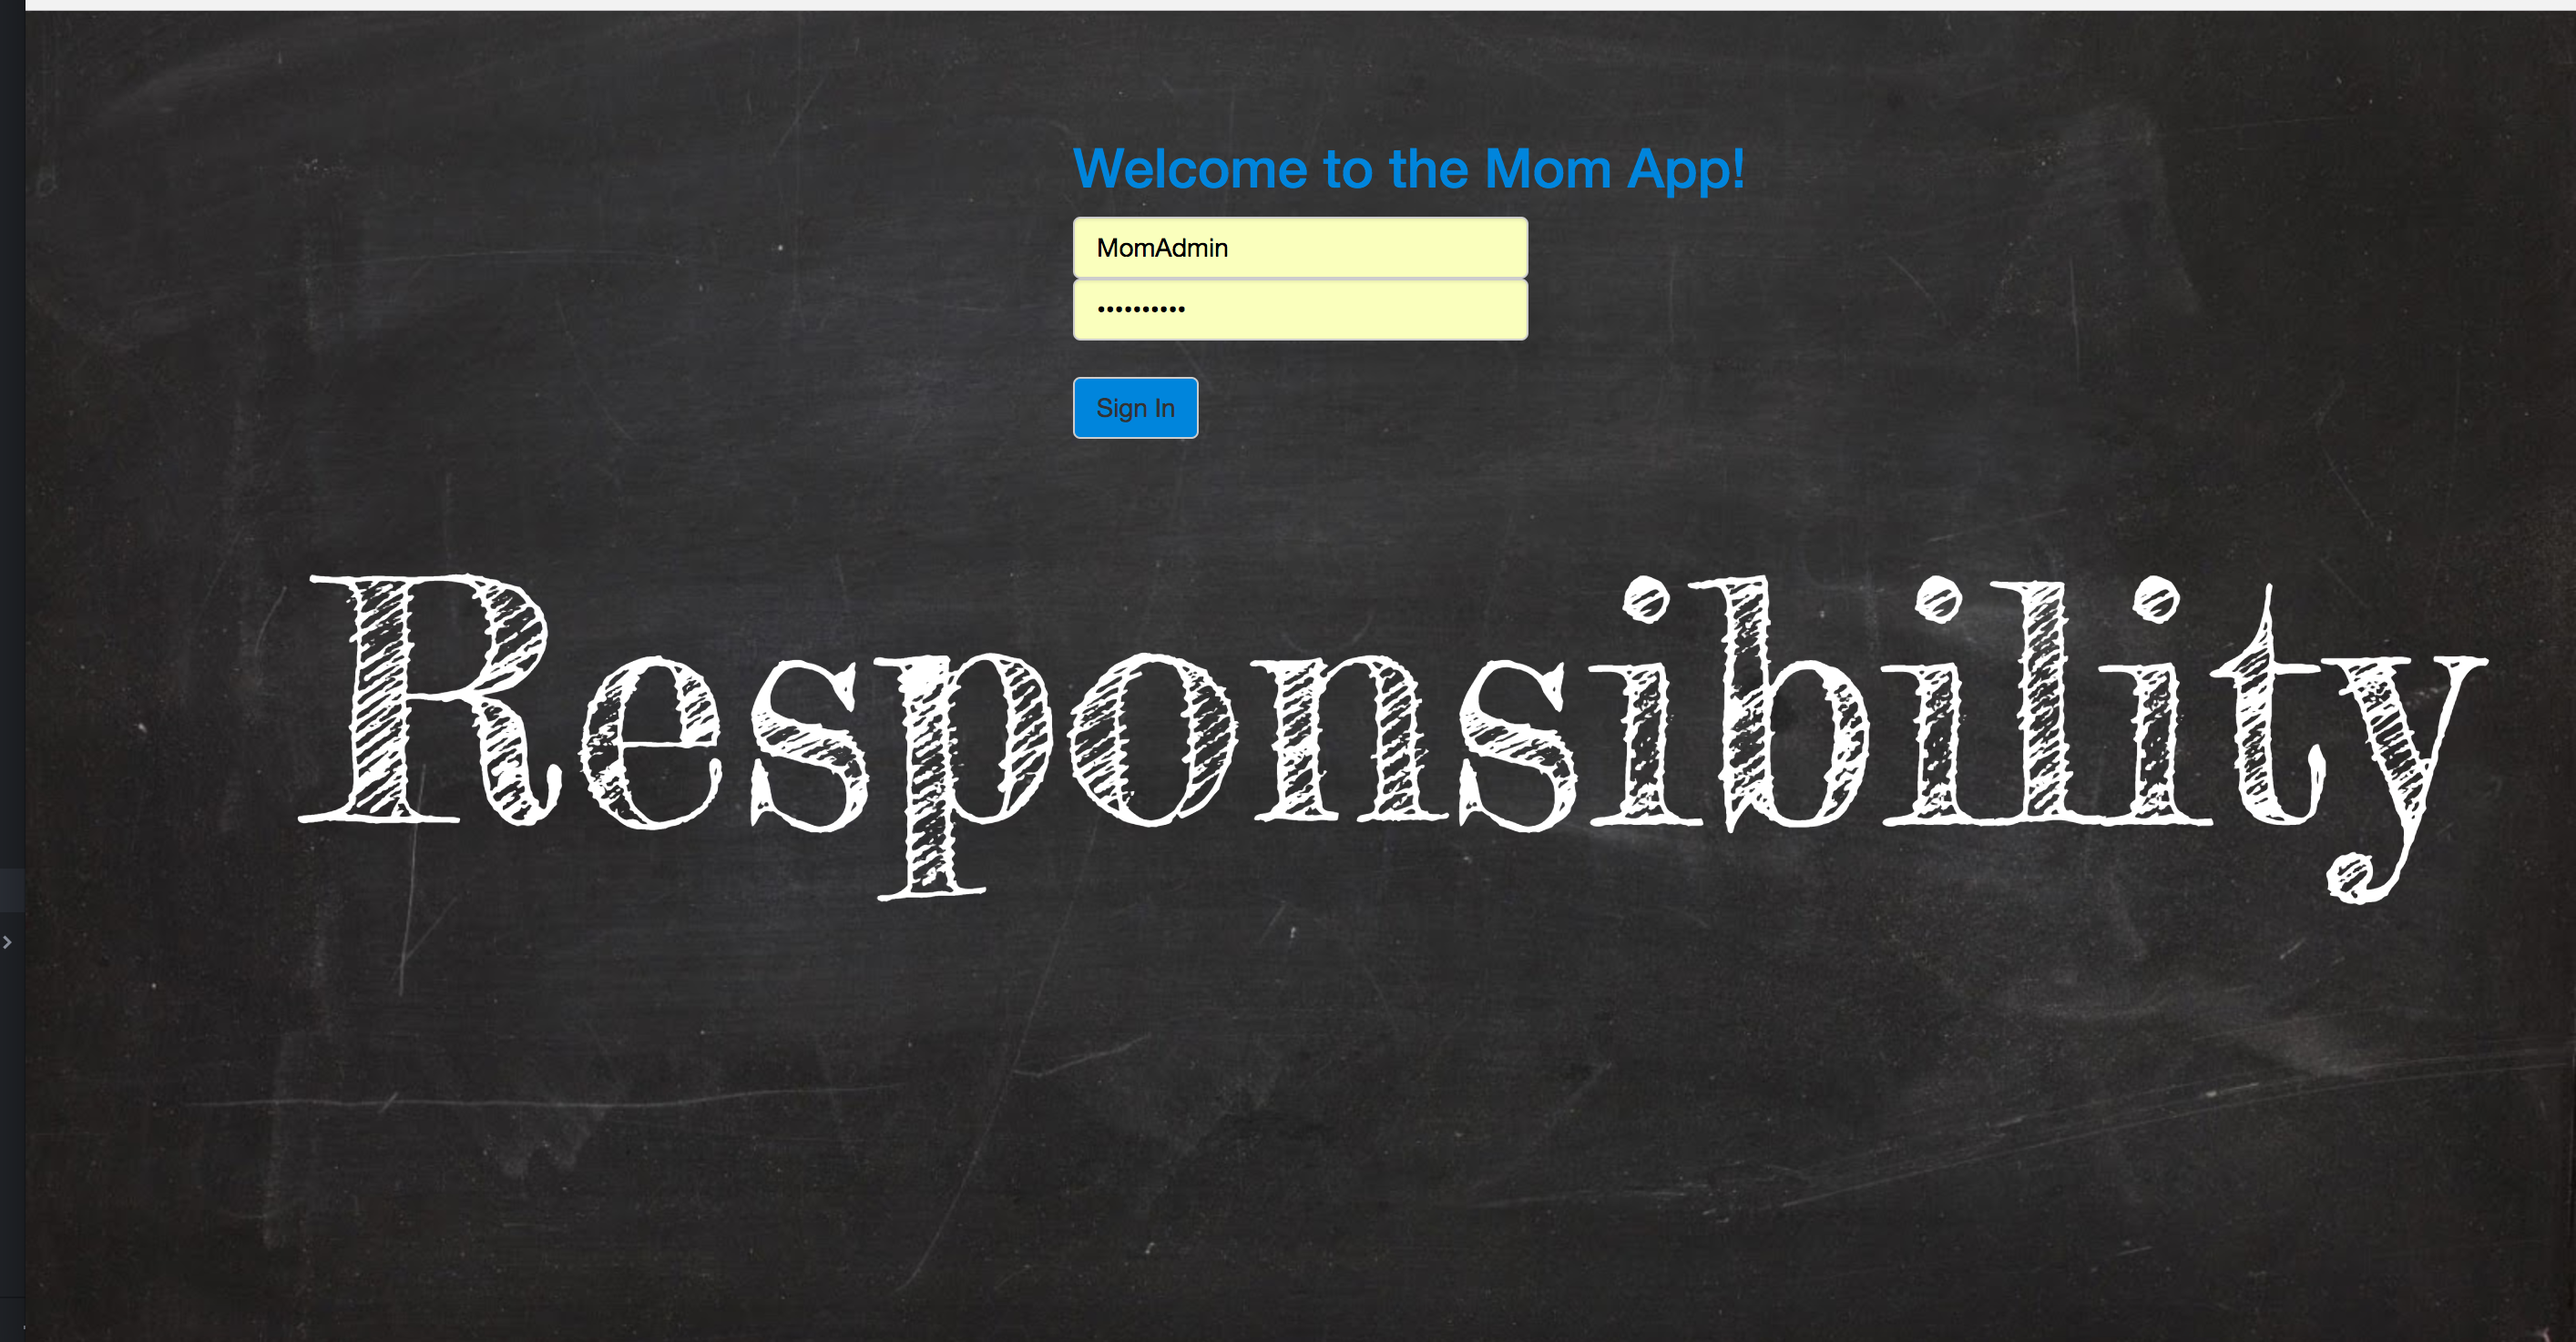
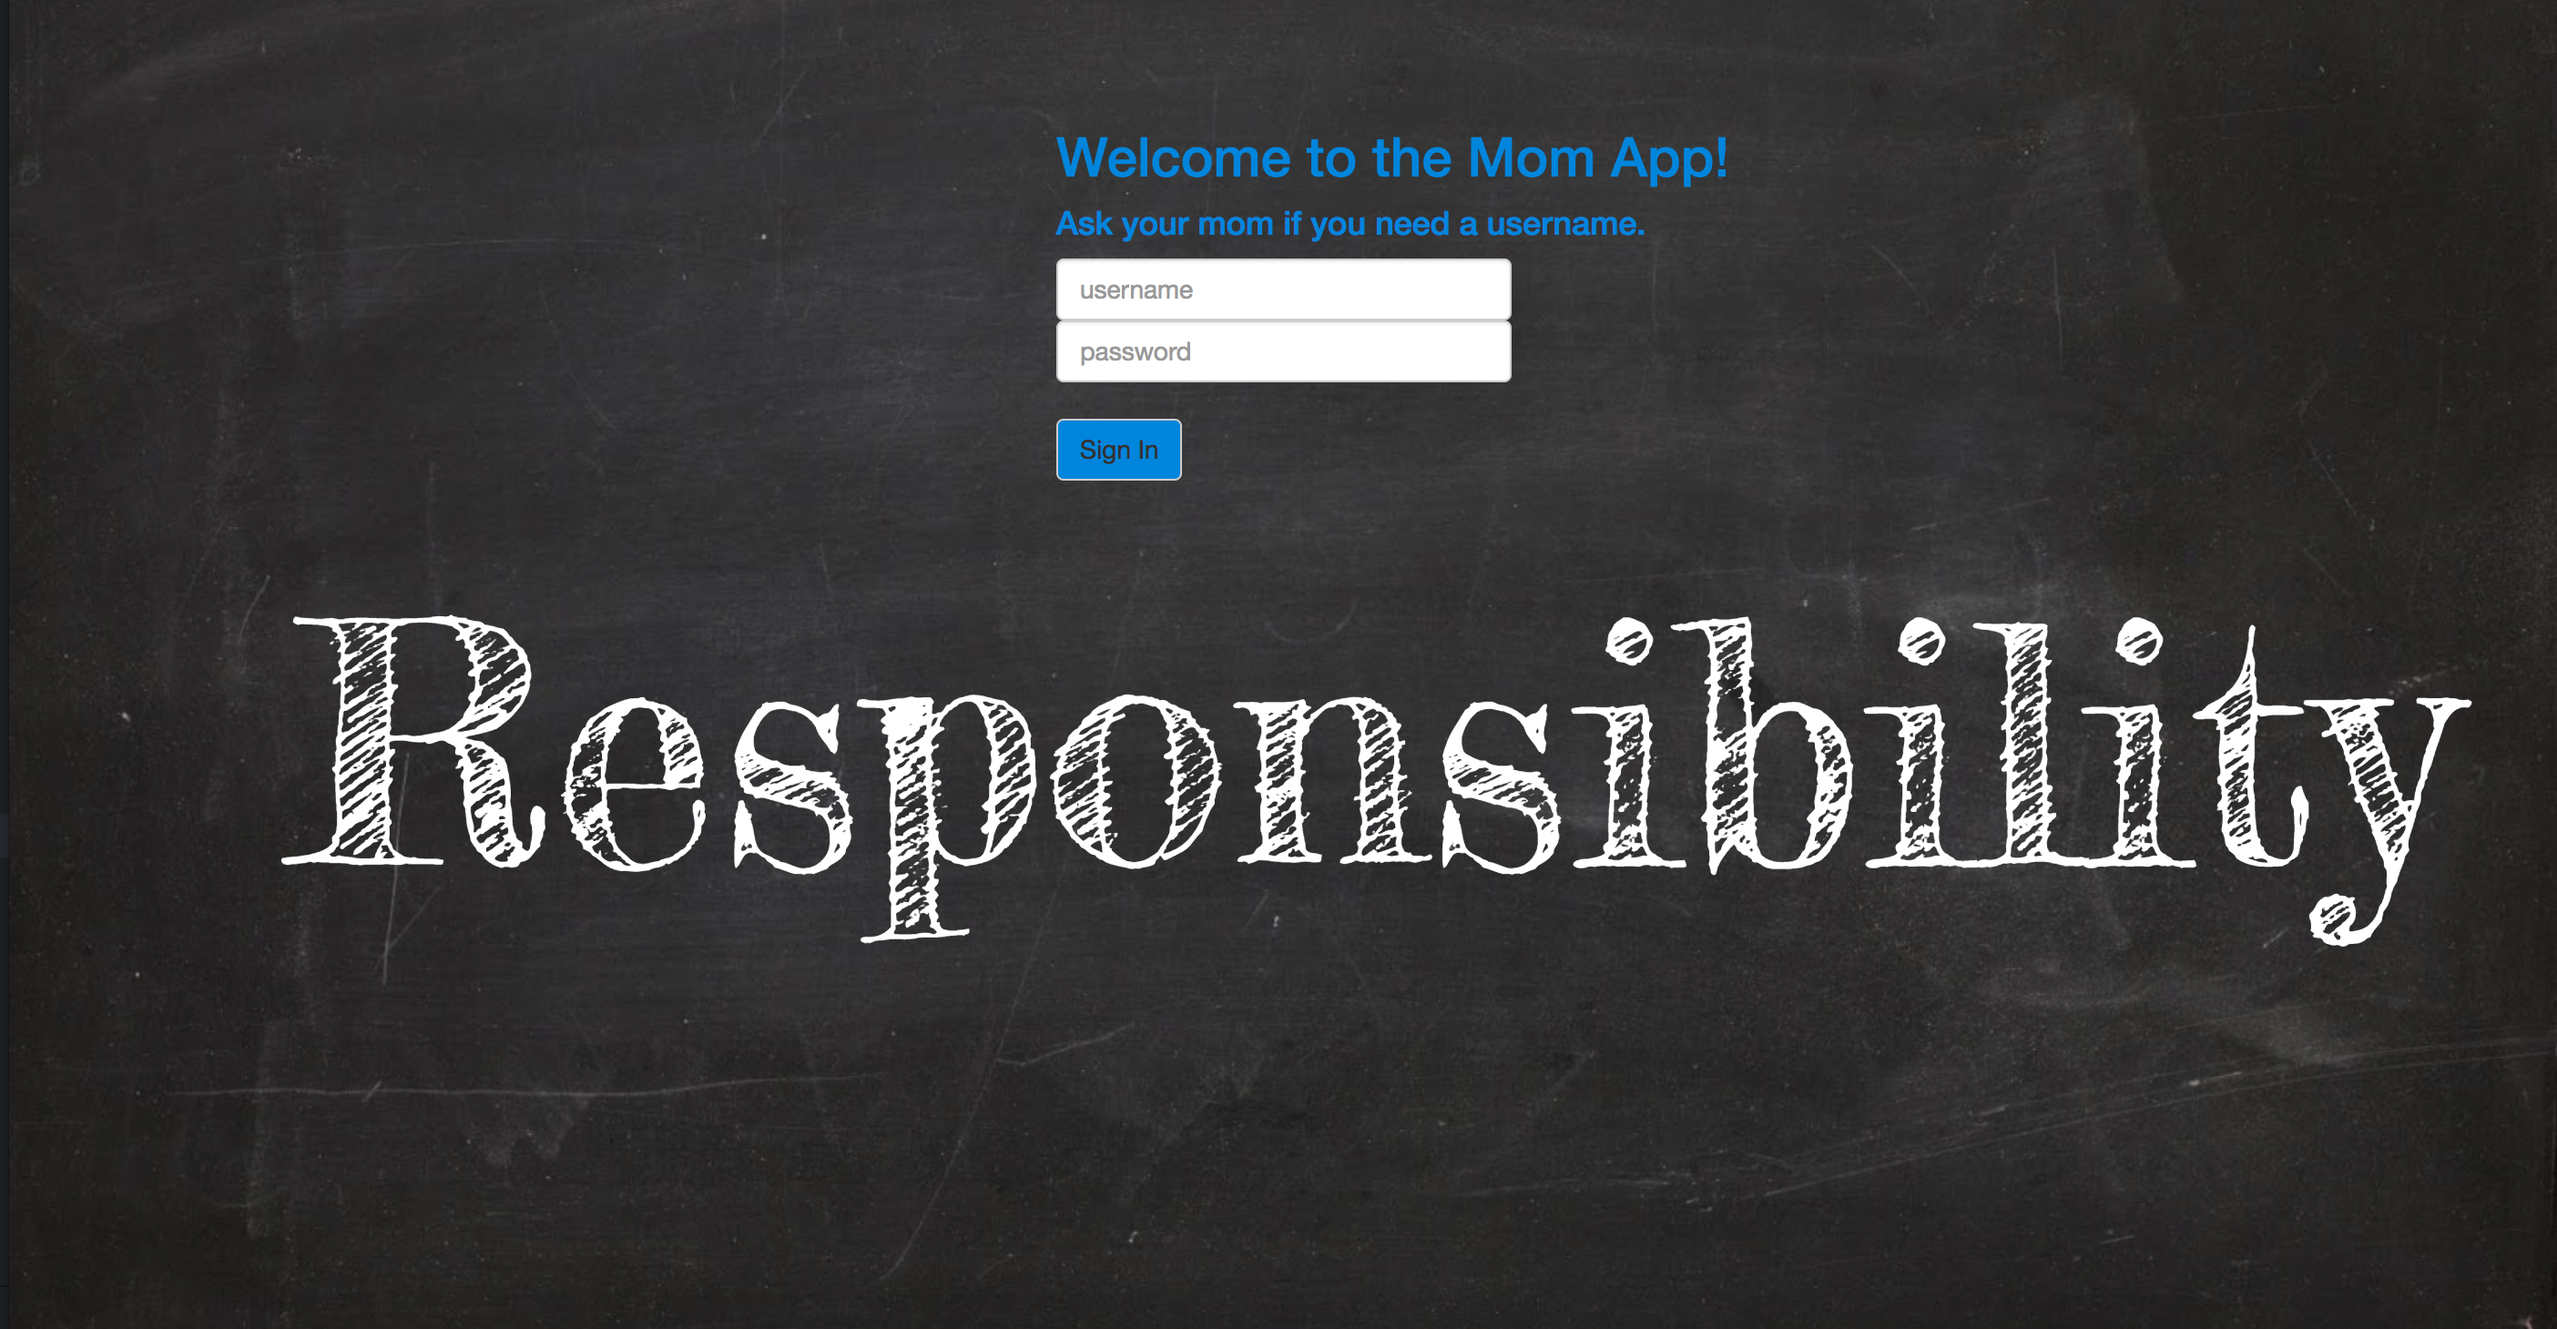
readme update

Changed region(s): [[0.1239, 0.4315, 0.9605, 0.7089], [0.4028, 0.0925, 0.6816, 0.3699], [0.0, 0.0, 1.0, 0.0308]]

diff --git a/server/public/views/templates/home.html b/server/public/views/templates/home.html
@@ -5,7 +5,7 @@
       <form class="loginform" ng-submit="lc.login()">
         <div class="row">
         <div class="col-md-6" >
-        <h2 class="homefont">Welcome to the Mom App!  </h2>
+        <h2 class="homefont">Welcome to the Mom App! </br><h4 class="homefont">Ask your mom if you need a username.</h4> </h2>
       </div>
       </div>
       <div class="row">
